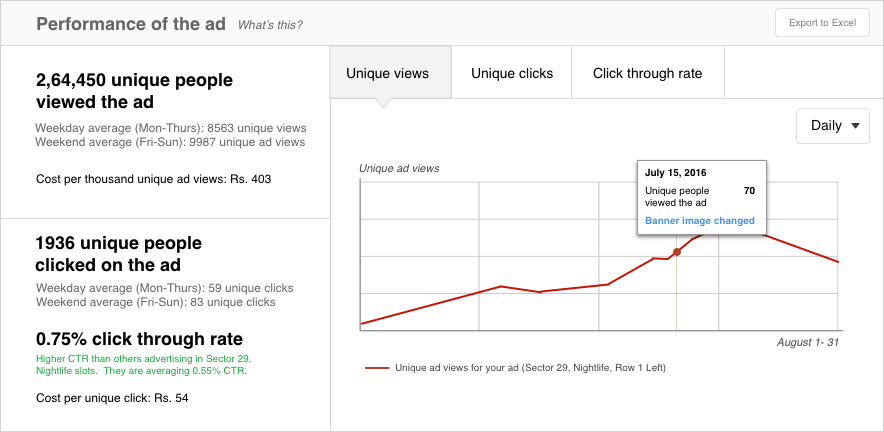
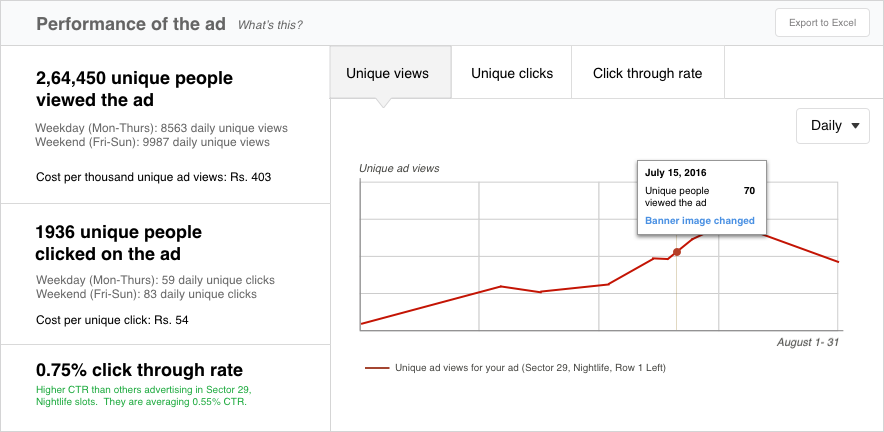
ad-perf-copy

Changed region(s): [[0.0305, 0.5116, 0.336, 0.963], [0.0305, 0.1505, 0.336, 0.3611], [0.0305, 0.3912, 0.3054, 0.4213]]

diff --git a/pages/performance-v8.html b/pages/performance-v8.html
@@ -229,7 +229,7 @@
 			    <h3 class = "ui header middle aligned test button"><a><u>Sector 29, Nightlife, Row 1 Left</u></a> <div class= "ui basic teal mini label middle aligned test button">Banner</div></h3>
 			    <!--<h3 class = "ui header middle aligned"><a>Sector 29, Nightlife, Row 1 Left</a> <div class= "ui basic teal mini label middle aligned">Banner</div></h3>-->
 			    <div class = "meta">
-			    	<span style = "color:#1ca93d">Ongoing in the selected time period (31 days)</span> <br>
+			    	<span style = "color:#1ca93d">Ongoing for all days in selected time period</span> <br>
 			    	 
 			    </div>
 
@@ -271,7 +271,7 @@
 			    <!--<h3 class = "ui header middle aligned test button"><a>Cyber City, Mobile Showcase, Slot 1</a><div class= "ui basic yellow mini label middle aligned">Premium Slider</div></h3>-->
 			    <h3 class = "ui header middle aligned test10 button"><a>Cyber City, Mobile Showcase, Slot 1</a><div class= "ui basic yellow mini label middle aligned">Premium Slider</div></h3>
 			    <div class = "meta">
-			    	<span style = "color:#1ca93d">Ongoing in the selected time period (31 days)</span> <br>
+			    	<span style = "color:#1ca93d">Ongoing from Oct 1-10 in selected time period</span> <br>
 			    	 
 			    </div>
 
@@ -304,7 +304,7 @@
 			    <!--<h3 class = "ui header middle aligned test button"><a>Summer Cocktails, Slot 1 </a><div class= "ui basic violet mini label middle aligned">Collection</div></h3>-->
 			    <h3 class = "ui header middle aligned test11 button"><a>Summer Cocktails, Slot 1 </a><div class= "ui basic violet mini label middle aligned">Collection</div></h3>
 			    <div class = "meta">
-			    	<span style = "color:#1ca93d">Ongoing in the selected time period (31 days)</span> <br>
+			    	<span style = "color:#1ca93d">Ongoing from Oct 1-5 in selected time period</span> <br>
 			    	 
 			    </div>
 
@@ -331,7 +331,7 @@
   <div class = "header">
 	  <h3 class="ui header">
 		    Sector 29, Nightlife, Row 1 Left
-		    <div class = "sub header">Placement and visual of your advertisement on Zomato. </div>
+		    <div class = "sub header">Placement of your advertisement creative on Zomato </div>
 	  </h3>
 	  <div class = "ui mini basic blue button">View on Zomato search page</div>
 	  <div class = "ui mini basic blue button">View on Zomato subzone page</div>
@@ -397,7 +397,7 @@
   		<p><b>A unique ad view is counted every time a new customer views your ad on the Zomato website or app within a day.  It is also known as a unique impression. </b></p>
   		<p><b>How is a unique ad view measured? </b> <br>Within a day (between 00:00 and 23:59), every new customer that views the ad is counted as a unique ad view.  Even if a customer views your ad multiple times within the same day, they are still counted as one unique ad view. </p>
   		<p><b>Why do unique ad views matter?</b><br>  More unique ad views mean greater number of customers are aware and exposed to your restaurant. </p>
-  		<p>(CAPTION)In the image, each advertisement got an additional unique ad view from a customer on a day.</p>
+  		<p>(CAPTION)In the image, each advertisement got an additional unique ad view from a customer in a day.</p>
   	 </div>
    </div>	
  </div>
@@ -482,12 +482,12 @@
   <h3 class="ui header"> Performance of the ad </h3>
   	<div class = "content">
   	<div class = "description">
-  		<p> Performance of the ad can be viewed in terms of unique ad views, unique ad clicks, and click through rate (CTR).</p>
+  		<p> Performance of the ad can be viewed in terms of unique views, unique clicks, and click through rate (CTR).</p>
   		<p><b>Unique ad views</b>
-  		<br>We provide a split of unique ad views by weekday (Monday - Thursday) and weekend (Friday - Sunday), given variation in customer traffic during these times.  For more detail, explore the graph of unique ad views for the selected time period.
+  		<br>We provide the daily average of unique views by weekday (Monday - Thursday) and weekend (Friday - Sunday), given variation in customer traffic during these times.  For more detail, see the graph of unique views for the selected time period.
   		</p>
   		<p><b>Unique ad clicks</b>
-  		<br> We provide a split of unique ad clicks by weekday (Monday - Thursday) and weekend (Friday - Sunday), given variation in customer traffic during these times.  For more detail, explore the graph of unique ad clicks for the selected time period.
+  		<br> We provide the daily average of unique clicks by weekday (Monday - Thursday) and weekend (Friday - Sunday), given variation in customer traffic during these times.  For more detail, see the graph of unique clicks for the selected time period.
   		</p>
   		<p><b>Click through rate (CTR) comparison</b>
   		<br>In addition to your banner CTR, we provide a comparison of the other advertisers in the same category and zone.  For more detail, explore the graph of CTR for the selected time period.
@@ -503,8 +503,11 @@
   <h3 class="ui header"> Relevance of the ad </h3>
   	<div class = "content">
   	<div class = "description">
-  		<p>Relevance of the ad refers to the number of unique ad views and unique clicks of your ad on an hourly basis between 00:00 and 23:59.  These values are indexed on a value between 0 and 100 on the graphs.  There are two graphs to show the split between weekday and weekend trends.  
-  		</p>
+  		<p>Relevance of the ad demonstrates how the ad is displayed and clicked by Zomato users during the course of a day.</p>
+  		<p><b> Distribution of unique ad views by the hour</b></p>
+  		<p>This is an hourly distribution of ad views during the day (00:00 to 23:59).  See two graphs that show the split between weekday and weekend trends.  </p>
+  		<p><b> Distribution of unique ad clicks by the hour</b></p>
+  		<p>This is an hourly distribution of ad clicks during the day (00:00 to 23:59).  See two graphs that show the split between weekday and weekend trends.  </p>
   	 </div>
    </div>	
  </div>

diff --git a/.build/performance-v8.html b/.build/performance-v8.html
@@ -421,7 +421,7 @@
 			    <h3 class = "ui header middle aligned test button"><a><u>Sector 29, Nightlife, Row 1 Left</u></a> <div class= "ui basic teal mini label middle aligned test button">Banner</div></h3>
 			    <!--<h3 class = "ui header middle aligned"><a>Sector 29, Nightlife, Row 1 Left</a> <div class= "ui basic teal mini label middle aligned">Banner</div></h3>-->
 			    <div class = "meta">
-			    	<span style = "color:#1ca93d">Ongoing in the selected time period (31 days)</span> <br>
+			    	<span style = "color:#1ca93d">Ongoing for all days in selected time period</span> <br>
 			    	 
 			    </div>
 
@@ -463,7 +463,7 @@
 			    <!--<h3 class = "ui header middle aligned test button"><a>Cyber City, Mobile Showcase, Slot 1</a><div class= "ui basic yellow mini label middle aligned">Premium Slider</div></h3>-->
 			    <h3 class = "ui header middle aligned test10 button"><a>Cyber City, Mobile Showcase, Slot 1</a><div class= "ui basic yellow mini label middle aligned">Premium Slider</div></h3>
 			    <div class = "meta">
-			    	<span style = "color:#1ca93d">Ongoing in the selected time period (31 days)</span> <br>
+			    	<span style = "color:#1ca93d">Ongoing from Oct 1-10 in selected time period</span> <br>
 			    	 
 			    </div>
 
@@ -496,7 +496,7 @@
 			    <!--<h3 class = "ui header middle aligned test button"><a>Summer Cocktails, Slot 1 </a><div class= "ui basic violet mini label middle aligned">Collection</div></h3>-->
 			    <h3 class = "ui header middle aligned test11 button"><a>Summer Cocktails, Slot 1 </a><div class= "ui basic violet mini label middle aligned">Collection</div></h3>
 			    <div class = "meta">
-			    	<span style = "color:#1ca93d">Ongoing in the selected time period (31 days)</span> <br>
+			    	<span style = "color:#1ca93d">Ongoing from Oct 1-5 in selected time period</span> <br>
 			    	 
 			    </div>
 
@@ -523,7 +523,7 @@
   <div class = "header">
 	  <h3 class="ui header">
 		    Sector 29, Nightlife, Row 1 Left
-		    <div class = "sub header">Placement and visual of your advertisement on Zomato. </div>
+		    <div class = "sub header">Placement of your advertisement creative on Zomato </div>
 	  </h3>
 	  <div class = "ui mini basic blue button">View on Zomato search page</div>
 	  <div class = "ui mini basic blue button">View on Zomato subzone page</div>
@@ -590,7 +590,7 @@
   		<p><b>How is a unique ad view measured? </b> <br>Within a day (between 00:00 and 23:59), every new customer that views the ad is counted as a unique ad view.  Even if a customer views your ad multiple times within the same day, they are still counted as one unique ad view. </p>
   		<p><b>Why do unique ad views matter?</b><br> 
 More unique ad views mean greater number of customers are aware and exposed to your restaurant. </p>
-  		<p>(CAPTION)In the image, each advertisement got an additional unique ad view from a customer on a day.</p>
+  		<p>(CAPTION)In the image, each advertisement got an additional unique ad view from a customer in a day.</p>
   	 </div>
    </div>	
  </div>
@@ -676,12 +676,12 @@ A click means that a customer was attracted by your ad, wants to learn more abou
   <h3 class="ui header"> Performance of the ad </h3>
   	<div class = "content">
   	<div class = "description">
-  		<p> Performance of the ad can be viewed in terms of unique ad views, unique ad clicks, and click through rate (CTR).</p>
+  		<p> Performance of the ad can be viewed in terms of unique views, unique clicks, and click through rate (CTR).</p>
   		<p><b>Unique ad views</b>
-  		<br>We provide a split of unique ad views by weekday (Monday - Thursday) and weekend (Friday - Sunday), given variation in customer traffic during these times.  For more detail, explore the graph of unique ad views for the selected time period.
+  		<br>We provide the daily average of unique views by weekday (Monday - Thursday) and weekend (Friday - Sunday), given variation in customer traffic during these times.  For more detail, see the graph of unique views for the selected time period.
   		</p>
   		<p><b>Unique ad clicks</b>
-  		<br> We provide a split of unique ad clicks by weekday (Monday - Thursday) and weekend (Friday - Sunday), given variation in customer traffic during these times.  For more detail, explore the graph of unique ad clicks for the selected time period.
+  		<br> We provide the daily average of unique clicks by weekday (Monday - Thursday) and weekend (Friday - Sunday), given variation in customer traffic during these times.  For more detail, see the graph of unique clicks for the selected time period.
   		</p>
   		<p><b>Click through rate (CTR) comparison</b>
   		<br>In addition to your banner CTR, we provide a comparison of the other advertisers in the same category and zone.  For more detail, explore the graph of CTR for the selected time period.
@@ -697,8 +697,11 @@ A click means that a customer was attracted by your ad, wants to learn more abou
   <h3 class="ui header"> Relevance of the ad </h3>
   	<div class = "content">
   	<div class = "description">
-  		<p>Relevance of the ad refers to the number of unique ad views and unique clicks of your ad on an hourly basis between 00:00 and 23:59.  These values are indexed on a value between 0 and 100 on the graphs.  There are two graphs to show the split between weekday and weekend trends.  
-  		</p>
+  		<p>Relevance of the ad demonstrates how the ad is displayed and clicked by Zomato users during the course of a day.</p>
+  		<p><b> Distribution of unique ad views by the hour</b></p>
+  		<p>This is an hourly distribution of ad views during the day (00:00 to 23:59).  See two graphs that show the split between weekday and weekend trends.  </p>
+  		<p><b> Distribution of unique ad clicks by the hour</b></p>
+  		<p>This is an hourly distribution of ad clicks during the day (00:00 to 23:59).  See two graphs that show the split between weekday and weekend trends.  </p>
   	 </div>
    </div>	
  </div>
